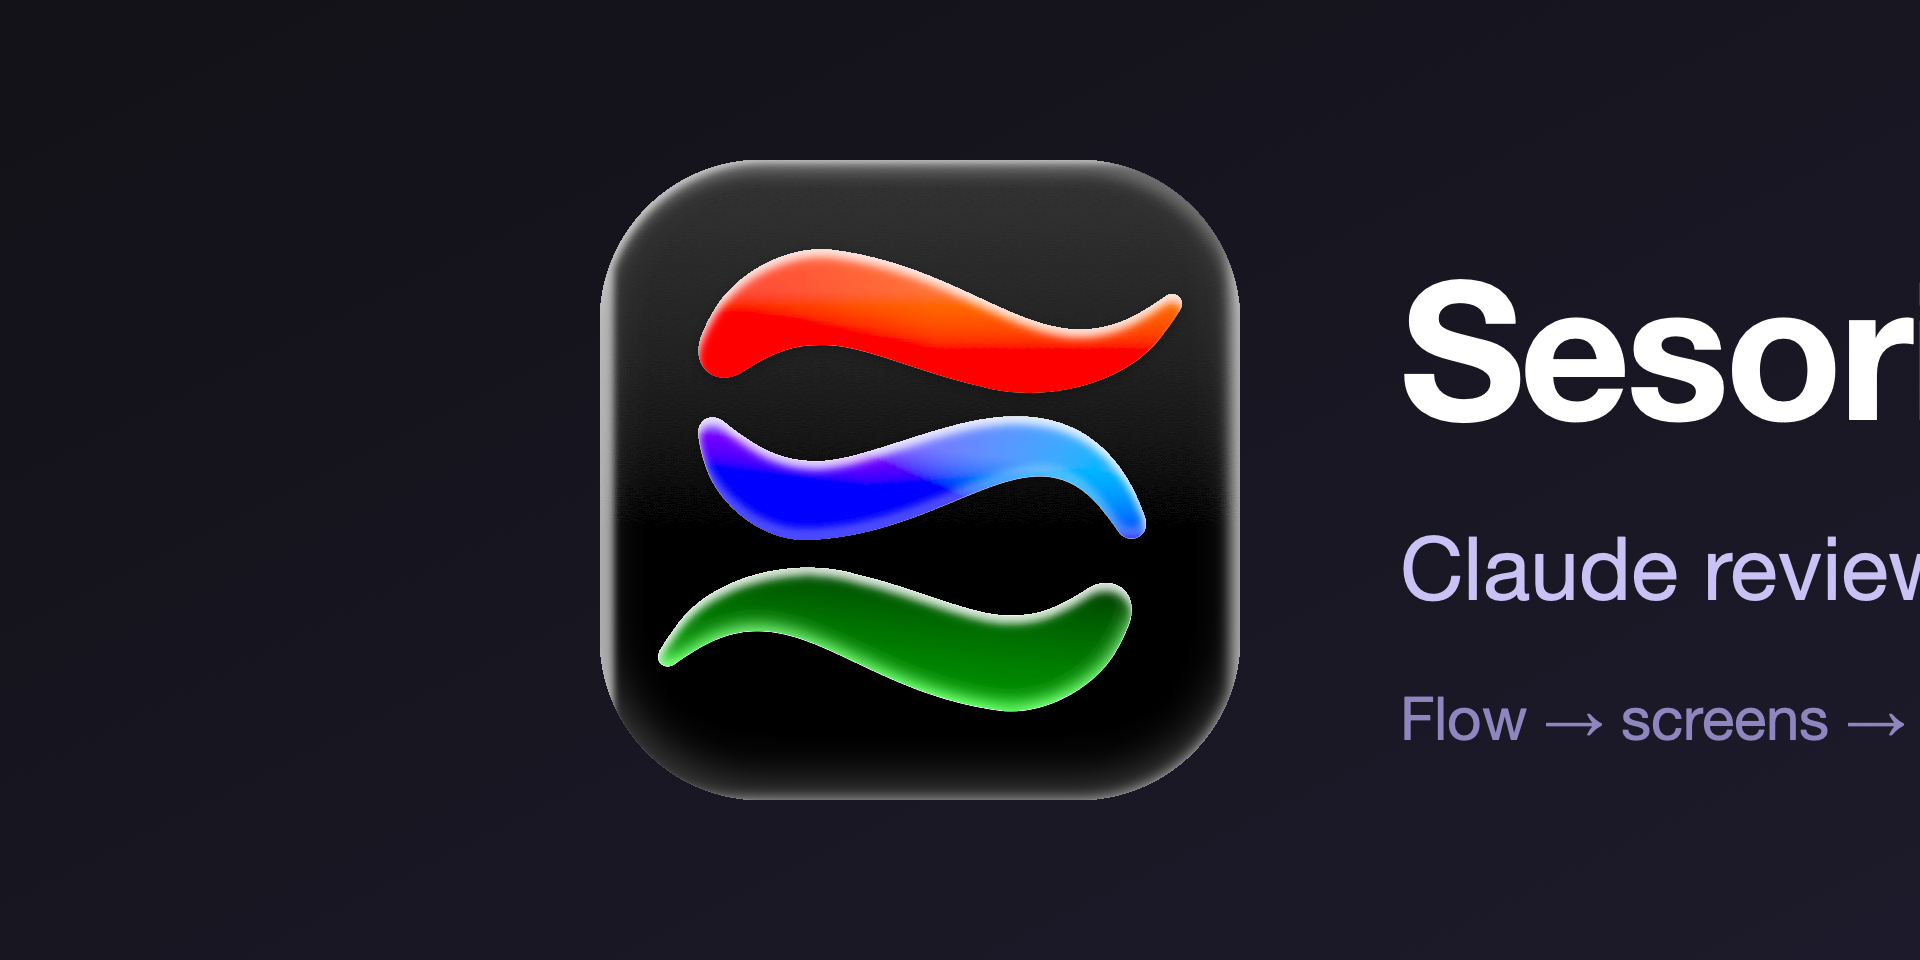
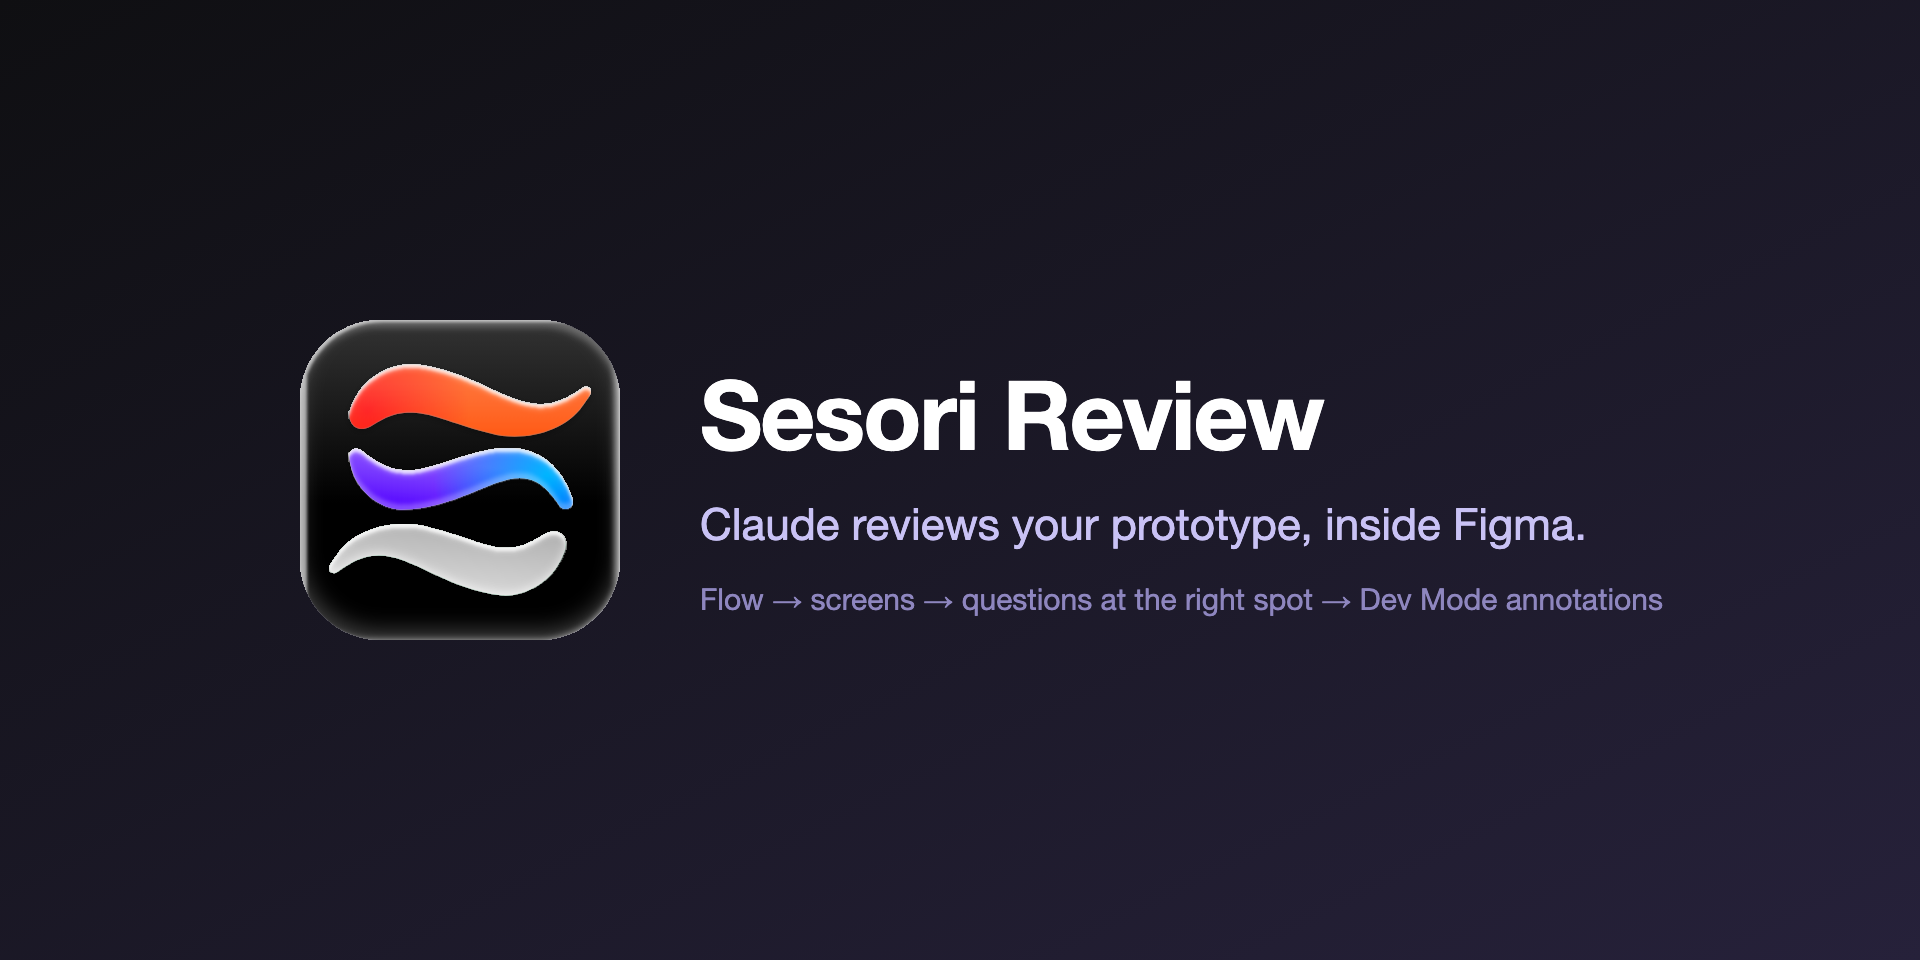
Sesori Review: offline card with install + start commands, browser notice, version-drift notice, quiet bridge start
Product name is Sesori Review (Community rejects 'Figma' in names); npm package stays @sesori/figma-review, advertised
as npm install -g + the sesori-figma-review command (npx as the no-install alternative). The panel can only see whether
the bridge answers, not whether it is installed, so the offline card shows both commands with Copy buttons. Browser Figma
cannot reach localhost, so say so upfront (Electron UA token). Cover PNG re-rendered with headless Chrome: qlmanage had
been cropping it. Also syncs .plan/ (codex-support plan) from the public repo.

Changed region(s): [[0.1562, 0.1562, 1.0, 0.8438], [0.7188, 0.2812, 1.0, 0.4375], [0.7188, 0.7188, 1.0, 0.7812]]

diff --git a/plugin/src/ui.ts b/plugin/src/ui.ts
@@ -24,6 +24,17 @@ let health: Health | undefined;
 const el = (tag: string, cls = "", text = "") => { const e = document.createElement(tag); if (cls) e.className = cls; if (text) e.textContent = text; return e; };
 const icon = (id: string) => { const s = document.createElementNS("http://www.w3.org/2000/svg", "svg"); s.innerHTML = `<use href="#i-${id}"/>`; return s; };
 const btn = (label: string, onClick: () => void, cls = "") => { const b = el("button", cls, label) as HTMLButtonElement; b.onclick = onClick; return b; };
+// Offline card. The plugin can only see whether the bridge answers on localhost, not whether it is installed, so it
+// shows both commands. The browser build of Figma cannot reach localhost at all; the desktop app is Electron, and
+// its UA token is the only Electron signal visible from inside the plugin iframe.
+const INSTALL = "npm install -g @sesori/figma-review", START = "sesori-figma-review";
+const offline = el("div", "card offline");
+offline.innerHTML = /Electron/.test(navigator.userAgent)
+  ? `<div class="q">The bridge is not running</div>` + [["Install once", INSTALL], ["Start it and keep the terminal open", START]].map(([l, c]) => `<div>${l}</div><div class="cmd"><code>${c}</code><button class="ghost" data-cmd="${c}">Copy</button></div>`).join("")
+    + `<div class="hint">Needs Node 22+ and Claude Code signed in (run <code>claude</code> once) or <code>ANTHROPIC_API_KEY</code>.</div>`
+  : `<div class="q">Sesori Review needs the Figma desktop app</div><div>The browser version of Figma cannot reach the bridge running on your machine.</div>`;
+offline.querySelectorAll("button").forEach(b => b.onclick = () => { const ta = document.createElement("textarea"); ta.value = b.dataset.cmd!; document.body.append(ta); ta.select(); document.execCommand("copy"); ta.remove(); }); // ponytail: clipboard API is blocked in the plugin iframe
+const drift = el("div", "error"); // plugin/bridge version mismatch notice, shown once per page load
 const working = el("div", "typing"); working.append(el("i"), el("i"), el("i")); // re-appended on every busy=true, so clearing the chat is safe
 const bubble = (cls: string, text = "") => { empty.remove(); const b = el("div", cls, text); chat.insertBefore(b, working.parentNode === chat ? working : null); chat.scrollTop = chat.scrollHeight; return b; };
 const assistant = (html: string) => { const b = bubble("msg assistant"); const body = el("div", "body"); body.innerHTML = html; b.append(body); return body; };
@@ -56,10 +67,10 @@ window.onmessage = (e: MessageEvent) => {
 function connect() {
   ws = new WebSocket(`ws://localhost:${BRIDGE_PORT}`);
   ws.onopen = () => {
-    setStatus("connected to bridge", "warn"); send({ kind: "hello", fileId: ctx.fileId, fileName: ctx.fileName });
+    offline.remove(); setStatus("connected to bridge", "warn"); send({ kind: "hello", fileId: ctx.fileId, fileName: ctx.fileName });
     if (live?.sessionId) send({ kind: "open", fileId: ctx.fileId, fileName: ctx.fileName, sessionId: live.sessionId }); // bridge restarted mid-conversation: re-render and resume on the next message
   };
-  ws.onclose = () => { setStatus("bridge offline — run `npx @sesori/figma-review` in a terminal and keep it open", "bad"); setTimeout(connect, 2000); };
+  ws.onclose = () => { chat.prepend(offline); setStatus("bridge offline", "bad"); setTimeout(connect, 2000); };
   ws.onerror = () => {};
   ws.onmessage = e => onDown(JSON.parse(e.data));
 }
@@ -87,7 +98,8 @@ function renderHealth(h: Health) {
   setStatus(h.error ?? `Claude ${h.claude ?? "starting…"}${h.model ? ` · ${h.model.replace(/^claude-/, "")}` : ""} · ${mcp}`, h.error ? "bad" : h.figmaMcp === "up" && !failed.length ? "ok" : "warn");
   statusEl.title = [h.figmaMcp === "up" ? "" : "Figma desktop MCP server is off: Dev Mode → inspect panel → Enable desktop MCP server. The review still works without it.", ...failed].filter(Boolean).join("\n");
   if (h.settings) { modelSel.value = h.settings.model; effortSel.value = h.settings.effort; }
-  $("about").textContent = `Sesori Figma Review ${__VERSION__} · bridge ${h.bridge}${h.claude ? ` · Claude Code ${h.claude}` : ""}`;
+  $("about").textContent = `Sesori Review ${__VERSION__} · bridge ${h.bridge}${h.claude ? ` · Claude Code ${h.claude}` : ""}`;
+  if (h.bridge !== __VERSION__ && !drift.isConnected) { drift.textContent = `Plugin ${__VERSION__} and bridge ${h.bridge} differ. Update the bridge with ${INSTALL}@latest and the plugin from Figma.`; chat.prepend(drift); }
 }
 function renderCost(s: SessionRecord) {
   const k = (n: number) => n >= 1000 ? `${(n / 1000).toFixed(1)}k` : String(n);

diff --git a/bridge/src/bridge.ts b/bridge/src/bridge.ts
@@ -8,6 +8,9 @@ import { BRIDGE_PORT, FIGMA_MCP_URL, type DownMsg, type Health, type NodeRef, ty
 import { readFileSync } from "node:fs";
 import { addUsage, hasClaudeAuth, installPlugin, readAllow, readSessions, readSettings, readTranscript, saveSession, saveSettings, workspaceFor, zeroUsage } from "./workspace.ts";
 
+const emitWarning = process.emitWarning.bind(process); // ponytail: the SDK warns that allowedTools bypasses canUseTool; that is our auto-approve list by design
+process.emitWarning = ((w: any, ...rest: any[]) => { if (!/canUseTool/.test(String(w))) emitWarning(w, ...rest); }) as typeof process.emitWarning;
+
 const VERSION: string = JSON.parse(readFileSync(new URL("../../package.json", import.meta.url), "utf8")).version; // root package: same depth from bridge/src and bridge/dist, and it ships in the tarball
 const log = (...a: unknown[]) => console.log(new Date().toISOString(), ...a);
 const now = () => new Date().toISOString();
@@ -243,6 +246,6 @@ new WebSocketServer({ port: BRIDGE_PORT, host: "127.0.0.1" }).on("connection", (
 log(`bridge ${VERSION} listening on ws://127.0.0.1:${BRIDGE_PORT}` + (process.env.APP_REPO ? ` · app repo ${process.env.APP_REPO}` : ""));
 const manifest = installPlugin();
 console.log(manifest
-  ? `\nSesori Figma Review is running. Keep this terminal open.\n\nFirst time? Add the plugin to Figma desktop once:\n  Plugins → Development → Import plugin from manifest… → ${manifest}\nThen run it from Plugins → Development → Sesori Figma Review.\n`
+  ? `\nSesori Review is running. Keep this terminal open.\n\nFirst time? Add the plugin to Figma desktop once:\n  Plugins → Development → Import plugin from manifest… → ${manifest}\nThen run it from Plugins → Development → Sesori Review.\n`
   : "\nPlugin build not found (run `npm run build`); the bridge is up but there is nothing to import into Figma.\n");
 if (!hasClaudeAuth()) console.log("No Claude credentials found: run `claude` once to sign in, or export ANTHROPIC_API_KEY. The plugin will show \"Claude failed to start\" until then.\n");

diff --git a/plugin/src/ui.html b/plugin/src/ui.html
@@ -91,7 +91,8 @@
   .card pre { margin: 0; font: var(--mono); line-height: 1.45; white-space: pre-wrap; max-height: 160px; overflow: auto; background: var(--bg-2); padding: 8px; border-radius: 8px; }
   .card .ctl { display: flex; flex-wrap: wrap; gap: 6px; }
   .card .ctl button { border-radius: 999px; }
-  .card .ctl textarea { flex: 1 1 100%; }
+  .card.offline { margin-bottom: 8px; } .card.offline .cmd { display: flex; gap: 6px; align-items: center; }
+  .card.offline .cmd code { flex: 1; background: var(--bg-2); padding: 6px 10px; border-radius: 6px; font-size: 11px; user-select: all; }  .card .ctl textarea { flex: 1 1 100%; }
   .card .a { color: var(--fg-2); display: flex; align-items: center; gap: 6px; } .card .a svg { width: 12px; height: 12px; }
   .error { align-self: stretch; color: var(--danger); background: color-mix(in srgb, var(--danger) 8%, transparent); border-radius: var(--r); padding: 8px 12px; white-space: pre-wrap; font-size: 11px; }
   .muted { color: var(--fg-3); font-size: 11px; }
@@ -129,7 +130,7 @@
 </svg>
 <header>
   <div class="brand">
-    <img class="logo" src="__MARK__" alt=""><b>Sesori Figma Review</b>
+    <img class="logo" src="__MARK__" alt=""><b>Sesori Review</b>
     <button id="btn-settings" class="icon" title="Model and effort"><svg><use href="#i-sliders"/></svg></button>
   </div>
   <div class="statusbar"><span id="dot" class="dot"></span><span id="status">connecting to bridge…</span><span id="cost"></span></div>

diff --git a/bridge/src/selfcheck.ts b/bridge/src/selfcheck.ts
@@ -9,7 +9,7 @@ process.env.CLAUDE_CONFIG_DIR = mkdtempSync(join(tmpdir(), "claude-config-"));
 const { addUsage, installPlugin, readAllow, readSessions, readSettings, readTranscript, saveSession, saveSettings, workspaceFor, zeroUsage } = await import("./workspace.ts");
 
 const manifest = installPlugin(); // needs a plugin build; tolerate its absence so `check` also runs before `build`
-if (manifest) assert.ok(readFileSync(manifest, "utf8").includes('"main": "dist/code.js"') && readFileSync(join(process.env.SESORI_REVIEW_HOME, "plugin/dist/ui.html"), "utf8").includes("Sesori Figma Review"), "plugin is copied next to the workspaces");
+if (manifest) assert.ok(readFileSync(manifest, "utf8").includes('"main": "dist/code.js"') && readFileSync(join(process.env.SESORI_REVIEW_HOME, "plugin/dist/ui.html"), "utf8").includes("Sesori Review"), "plugin is copied next to the workspaces");
 
 assert.deepEqual(readSettings(), { model: "", effort: "" }, "no settings file → Claude Code defaults");
 saveSettings({ model: "opus", effort: "low" });

diff --git a/README.md b/README.md
@@ -1,5 +1,5 @@
-<p align="center"><img src="https://raw.githubusercontent.com/sesori-ai/sesori-figma-review/master/plugin/assets/icon-128.png" width="96" alt="Sesori Figma Review"></p>
-<h1 align="center">Sesori Figma Review</h1>
+<p align="center"><img src="https://raw.githubusercontent.com/sesori-ai/sesori-figma-review/master/plugin/assets/icon-128.png" width="96" alt="Sesori Review"></p>
+<h1 align="center">Sesori Review</h1>
 <p align="center"><b>Claude reviews your Figma prototype with you, inside Figma.</b><br>
 It walks the canvas screen by screen, asks before it assumes, and leaves Dev Mode annotations your developers can build from.</p>
 
@@ -15,19 +15,20 @@ It walks the canvas screen by screen, asks before it assumes, and leaves Dev Mod
 
 ## Quick start
 
-You need **Node 22+**, the **Figma desktop app**, and **Claude Code signed in** (run `claude` once) or an `ANTHROPIC_API_KEY` in your shell.
+You need **Node 22+**, the **Figma desktop app** (the browser version cannot reach a local process), and **Claude Code signed in** (run `claude` once) or an `ANTHROPIC_API_KEY` in your shell.
 
-**1. Start the bridge** and keep the terminal open:
+**1. Install and start the bridge**, and keep the terminal open:
 
 ```bash
-npx @sesori/figma-review
+npm install -g @sesori/figma-review   # once
+sesori-figma-review                   # every time you review
 ```
 
-It prints the path of a plugin manifest, something like `~/.sesori-review/plugin/manifest.json`.
+It prints the path of a plugin manifest, something like `~/.sesori-review/plugin/manifest.json`. (No install? `npx -y @sesori/figma-review` does both in one go.)
 
 **2. Add the plugin to Figma** (once): **Plugins → Development → Import plugin from manifest…** and pick that file.
 
-**3. Review**: open a file, run **Plugins → Development → Sesori Figma Review**, click **Review flow**. The header dot turns green when the bridge and Claude are ready.
+**3. Review**: open a file, run **Plugins → Development → Sesori Review**, click **Review flow**. The header dot turns green when the bridge and Claude are ready.
 
 Next time you only need step 1 and step 3.
 
@@ -49,7 +50,7 @@ Annotations are written without asking and appended to what is there. Anything n
 ## How it works
 
 ```
-Figma desktop ── plugin UI ──► ws://localhost:3055 ──► bridge (npx @sesori/figma-review) ──► Claude Code ──► Anthropic API
+Figma desktop ── plugin UI ──► ws://localhost:3055 ──► bridge (sesori-figma-review) ──► Claude Code ──► Anthropic API
 ```
 
 The plugin is a thin client. The bridge is a small local process that runs the Claude Agent SDK, exposes Figma tools to Claude (`get_flow`, `get_screen`, `focus`, `annotate`, `ask_user`) and keeps a workspace per Figma file under `~/.sesori-review/files/<fileId>/`. See [ARCHITECTURE.md](ARCHITECTURE.md).
@@ -81,12 +82,12 @@ Per-file workspace (`~/.sesori-review/files/<fileId>/`), the agent's working dir
 <details>
 <summary><b>Troubleshooting</b></summary>
 
-- **"bridge offline"** in the header: start `npx @sesori/figma-review`. The plugin reconnects every 2 seconds and picks the conversation back up.
+- **"bridge offline"** in the header: the panel shows the install and start commands. The plugin reconnects every 2 seconds and picks the conversation back up.
+- **Versions differ** notice: `npm install -g @sesori/figma-review@latest`, then update the plugin from Figma (Community) or by restarting the bridge (manifest import).
 - **Claude failed to start**: run `claude` in a terminal to check auth. The bridge terminal shows the error.
 - **Figma MCP off**: enable the desktop MCP server in Dev Mode, or ignore it.
 - **Annotations fail**: free Figma plan, or a node type that cannot hold annotations (groups, some vectors).
 - **Nothing happens after "Review flow"**: check the bridge terminal. Closing the plugin mid-turn fails pending tool calls and Claude is told so.
-- **Upgrading**: `npx @sesori/figma-review@latest`. The bridge refreshes the plugin copy on every start; Figma reloads it the next time you run the plugin.
 </details>
 
 <details>

diff --git a/CHANGELOG.md b/CHANGELOG.md
@@ -2,11 +2,14 @@
 
 ## 0.3.0 — 2026-09-10
 
-- Published as **`@sesori/figma-review`**: `npx @sesori/figma-review` starts the bridge, copies the plugin to `~/.sesori-review/plugin/` and prints the manifest path to import into Figma.
+- Published as **`@sesori/figma-review`**: `npm install -g @sesori/figma-review` then `sesori-figma-review` (or `npx -y @sesori/figma-review`) starts the bridge, copies the plugin to `~/.sesori-review/plugin/` and prints the manifest path to import into Figma.
 - Bridge is bundled to `bridge/dist/bridge.mjs`; dependencies hoisted to the root package.
 - Bridge start hints when no Claude credentials are found.
 - Plugin re-attaches to its conversation after a bridge restart. Reopening the plugin while Claude is idle shows the empty state instead of a stuck Stop button; the last conversation is in History.
 - README rewritten around the quick start.
+- Product name is **Sesori Review** (Figma Community does not allow "Figma" in plugin names); the npm package stays `@sesori/figma-review`.
+- Offline card in the panel with the install and start commands and Copy buttons; a notice when the plugin is opened in the browser version of Figma, and one when plugin and bridge versions differ.
+- The SDK's permission-shadowing warning is silenced (the auto-approve list is intended).
 
 ## 0.2.0 — 2026-09-10
 

diff --git a/ARCHITECTURE.md b/ARCHITECTURE.md
@@ -34,8 +34,9 @@ bridge/smoke.mjs            fake plugin for an end-to-end run without Figma
 ```
 
 Distribution: one npm package, `@sesori/figma-review`, root `package.json` owns the runtime dependencies and ships `bridge/dist`,
-`plugin/dist` and `plugin/manifest.json`. `npx @sesori/figma-review` runs the bridge, which copies the plugin to
-`~/.sesori-review/plugin/` (a stable path, unlike the npx cache) and prints the manifest path to import into Figma.
+`plugin/dist` and `plugin/manifest.json`. The `sesori-figma-review` bin (global install or npx) runs the bridge, which copies
+the plugin to `~/.sesori-review/plugin/` (a stable path, unlike npm's global or npx directories) and prints the manifest path to
+import into Figma.
 
 ## Per-file workspace (agent cwd)
 

diff --git a/PLAN.md b/PLAN.md
@@ -1,4 +1,4 @@
-# Plan: Sesori Figma Review
+# Plan: Sesori Review
 
 ## Goal
 
